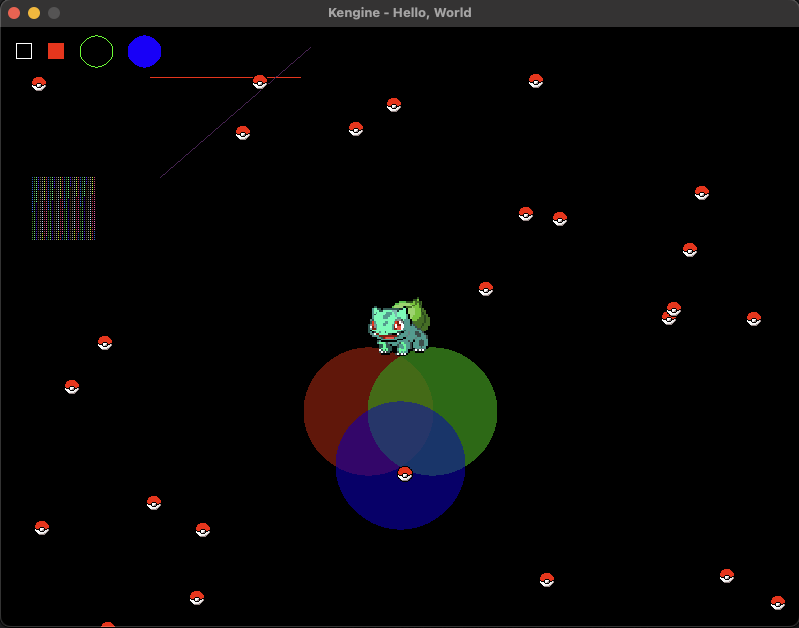
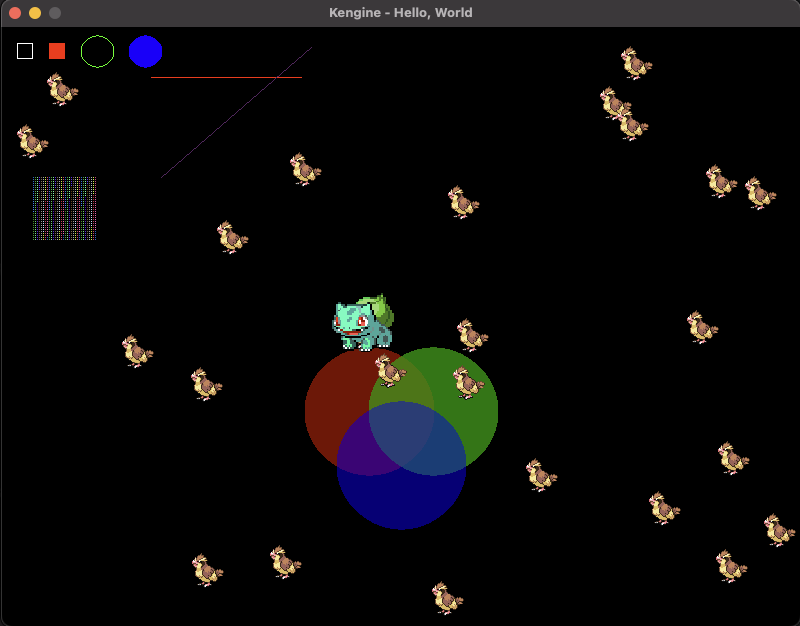
event engine v1 + example

diff --git a/helloworld/src/nativeMain/kotlin/PingPongPidgeyEntity.kt b/helloworld/src/nativeMain/kotlin/PingPongPidgeyEntity.kt
@@ -1,16 +1,18 @@
 import com.kengine.Vec2
 import com.kengine.context.useContext
 import com.kengine.entity.Entity
+import com.kengine.event.EventContext
 import com.kengine.graphics.Sprite
+import com.kengine.log.Logger
 import com.kengine.sdl.SDLContext
 import kotlin.random.Random
 
-class BouncingPokeballEntity : Entity {
-    private val pokeballSprite = Sprite("assets/sprites/pokeball.bmp")
+class PingPongPidgeyEntity : Entity {
+    private val pidgeySprite = Sprite("assets/sprites/pidgey.bmp")
     override val p: Vec2 = Vec2()
     override val v: Vec2 = Vec2()
-    override val width = pokeballSprite.width
-    override val height = pokeballSprite.height
+    override val width = pidgeySprite.width
+    override val height = pidgeySprite.height
     private var state = State.INIT
 
     private enum class State {
@@ -29,19 +31,24 @@ class BouncingPokeballEntity : Entity {
     }
 
     private fun init() {
+        useContext(EventContext.get()) {
+            subscribe(Events.BULBASAUR_ROAR) { e: BulbasaurRoarEvent ->
+                Logger.info { "Pidgey heard bulbasaur's roar of ${e.decibels}dB" }
+                v *= 1.05 // 5% increase in velocity
+            }
+        }
         useContext(SDLContext.get()) {
-            p.x = Random.nextInt(0, screenWidth - pokeballSprite.width).toDouble()
-            p.y = Random.nextInt(0, screenHeight - pokeballSprite.height).toDouble()
-            v.x = Random.nextInt(1, 100).toDouble() * if (Random.nextBoolean()) 1 else -1
-            v.y = Random.nextInt(1, 100).toDouble() * if (Random.nextBoolean()) 1 else -1
+            p.x = Random.nextInt(0, screenWidth - pidgeySprite.width).toDouble()
+            p.y = Random.nextInt(0, screenHeight - pidgeySprite.height).toDouble()
+            v.x = Random.nextInt(1, 30).toDouble() * if (Random.nextBoolean()) 1 else -1
+            v.y = Random.nextInt(1, 30).toDouble() * if (Random.nextBoolean()) 1 else -1
         }
         state = State.BOUNCE
     }
 
     private fun bounce(elapsedSeconds: Double) {
         useContext(SDLContext.get()) {
-            p.x += v.x * elapsedSeconds
-            p.y += v.y * elapsedSeconds
+            p += v * elapsedSeconds
             if (p.x < 0 || p.x > screenWidth - width) {
                 v.x *= -1
             }
@@ -52,11 +59,11 @@ class BouncingPokeballEntity : Entity {
     }
 
     override fun draw(elapsedSeconds: Double) {
-        pokeballSprite.draw(p.x, p.y)
+        pidgeySprite.draw(p.x, p.y)
     }
 
     override fun cleanup() {
-        pokeballSprite.cleanup()
+        pidgeySprite.cleanup()
     }
 
 }

diff --git a/kengine/src/nativeMain/kotlin/com/kengine/event/EventContext.kt b/kengine/src/nativeMain/kotlin/com/kengine/event/EventContext.kt
@@ -1,0 +1,57 @@
+package com.kengine.event
+
+import com.kengine.context.Context
+import com.kengine.log.Logger
+
+
+data class Event<M>(
+    val type: String, // TODO I tried <T : Enum<T>, M>, but clean instantiation of context without a defined T became difficult
+    val message: M
+)
+
+class EventContext : Context() {
+    private val subscribers = mutableMapOf<String, MutableList<(Any) -> Unit>>()
+
+    companion object {
+        private var currentContext: EventContext? = null
+
+        fun get(): EventContext {
+            if (currentContext == null) {
+                currentContext = EventContext()
+
+            }
+            return currentContext ?: throw IllegalStateException("Failed to create EventContext")
+        }
+    }
+
+    fun <M> subscribe(eventType: String, handler: (M) -> Unit) {
+        val handlers = subscribers.getOrPut(eventType) { mutableListOf() }
+        handlers.add { message ->
+            try {
+                handler(message as M)
+            } catch (e: ClassCastException) {
+                Logger.error { "Failed to cast message: ${e.message}" }
+                Logger.debug(e)
+            }
+        }
+    }
+
+    fun <M : Any> publish(eventType: String, message: M) {
+        subscribers[eventType]?.forEach { handler ->
+            handler(message)
+        }
+    }
+
+    fun clearSubscribers(eventType: String) {
+        subscribers.remove(eventType)
+    }
+
+    fun clearAll() {
+        subscribers.clear()
+    }
+
+    override fun cleanup() {
+        clearAll()
+    }
+
+}

diff --git a/kengine/src/nativeMain/kotlin/com/kengine/GameContext.kt b/kengine/src/nativeMain/kotlin/com/kengine/GameContext.kt
@@ -2,6 +2,7 @@ package com.kengine
 
 import com.kengine.action.ActionsContext
 import com.kengine.context.Context
+import com.kengine.event.EventContext
 import com.kengine.geometry.GeometryContext
 import com.kengine.graphics.SpriteContext
 import com.kengine.graphics.TextureContext
@@ -15,7 +16,8 @@ import com.kengine.sound.SoundContext
 
 class GameContext private constructor(
     val sdl: SDLContext,
-    val events: SDLEventContext,
+    val sdlEvents: SDLEventContext,
+    val events: EventContext,
     val keyboard: KeyboardContext,
     val mouse: MouseContext,
     val textures: TextureContext,
@@ -43,7 +45,8 @@ class GameContext private constructor(
             }
             currentContext = GameContext(
                 sdl = SDLContext.create(title, width, height),
-                events = SDLEventContext.get(),
+                events = EventContext.get(),
+                sdlEvents = SDLEventContext.get(),
                 keyboard = KeyboardContext.get(),
                 mouse = MouseContext.get(),
                 textures = TextureContext.get(),
@@ -64,7 +67,7 @@ class GameContext private constructor(
     override fun cleanup() {
         Logger.info { "Cleaning up game resources" }
         actions.cleanup()
-        events.cleanup()
+        sdlEvents.cleanup()
         keyboard.cleanup()
         mouse.cleanup()
         textures.cleanup()

diff --git a/kengine/src/nativeMain/kotlin/com/kengine/log/Logger.kt b/kengine/src/nativeMain/kotlin/com/kengine/log/Logger.kt
@@ -21,19 +21,19 @@ object Logger {
     fun info(message: () -> String) = log(INFO, message())
     fun warn(message: () -> String) = log(WARN, message())
     fun error(message: () -> String) = log(ERROR, message())
-    fun debug(message: () -> Any) = log(DEBUG, message().toString())
-    fun info(message: () -> Any) = log(INFO, message().toString())
-    fun warn(message: () -> Any) = log(WARN, message().toString())
-    fun error(message: () -> Any) = log(ERROR, message().toString())
 
     fun debug(message: String) = log(DEBUG, message)
     fun info(message: String) = log(INFO, message)
     fun warn(message: String) = log(WARN, message)
     fun error(message: String) = log(ERROR, message)
-    fun debug(message: Any) = log(DEBUG, message.toString())
-    fun info(message: Any) = log(INFO, message.toString())
-    fun warn(message: Any) = log(WARN, message.toString())
-    fun error(message: Any) = log(ERROR, message.toString())
+
+    // special exception helpers
+    fun debug(e: Exception) = log(DEBUG, exceptionToString(e))
+    fun info(e: Exception) = log(INFO, exceptionToString(e))
+    fun warn(e: Exception) = log(WARN, exceptionToString(e))
+    fun error(e: Exception) = log(ERROR, exceptionToString(e))
+
+    private fun exceptionToString(e: Exception) = "${e.message}\n${e.stackTraceToString()}"
 
     /**
      * Sets the global log level.

diff --git a/helloworld/src/nativeMain/kotlin/BulbasaurEntity.kt b/helloworld/src/nativeMain/kotlin/BulbasaurEntity.kt
@@ -1,10 +1,13 @@
+
 import com.kengine.context.useContext
 import com.kengine.entity.SpriteEntity
+import com.kengine.event.EventContext
 import com.kengine.graphics.Sprite
 import com.kengine.input.KeyboardContext
 import com.kengine.input.MouseContext
 import com.kengine.log.Logger
 import com.kengine.sdl.SDLContext
+import sdl2.SDLK_SPACE
 
 class BulbasaurEntity : SpriteEntity(
     sprite = Sprite("assets/sprites/bulbasaur.bmp")
@@ -40,6 +43,12 @@ class BulbasaurEntity : SpriteEntity(
             }
             if (keyboard.isDownPressed()) {
                 v.y = speed * elapsedSeconds
+            }
+            if (keyboard.isKeyPressed(SDLK_SPACE)) {
+                Logger.info { "Bulbasaur ROARED!" }
+                useContext(EventContext.get()) {
+                    publish(Events.BULBASAUR_ROAR, BulbasaurRoarEvent(decibels = 90.0))
+                }
             }
         }
         useContext(MouseContext.get()) {

diff --git a/boxxle/src/nativeMain/kotlin/boxxle/BoxxleGame.kt b/boxxle/src/nativeMain/kotlin/boxxle/BoxxleGame.kt
@@ -51,12 +51,12 @@ class BoxxleGame : Game {
         }
     }
 
-    fun beginPlay() {
+    private fun beginPlay() {
         mainSound.loop()
         state = State.PLAY
     }
 
-    fun play(elapsedSeconds: Double) {
+    private fun play(elapsedSeconds: Double) {
         useContext(BoxxleContext.get()) {
             player.update(elapsedSeconds)
 

diff --git a/helloworld/src/nativeMain/kotlin/HelloWorldGame.kt b/helloworld/src/nativeMain/kotlin/HelloWorldGame.kt
@@ -6,7 +6,7 @@ import com.kengine.sdl.SDLContext
 
 class HelloWorldGame : Game {
     private val bulbasaur = BulbasaurEntity()
-    private val pokeballs = List(size = 25) { BouncingPokeballEntity() }
+    private val pokeballs = List(size = 25) { PingPongPidgeyEntity() }
 
     override fun update(elapsedSeconds: Double) {
         pokeballs.forEach {

diff --git a/kengine/src/nativeMain/kotlin/com/kengine/GameLoop.kt b/kengine/src/nativeMain/kotlin/com/kengine/GameLoop.kt
@@ -22,7 +22,7 @@ class GameLoop(
                 val elapsedSeconds = (currentFrameTime - lastFrameTime) / 1000.0
                 lastFrameTime = currentFrameTime
 
-                events.pollEvents()
+                sdlEvents.pollEvents()
                 actions.update(elapsedSeconds)
 
                 update(elapsedSeconds)

diff --git a/helloworld/src/nativeMain/kotlin/Events.kt b/helloworld/src/nativeMain/kotlin/Events.kt
@@ -1,0 +1,7 @@
+object Events {
+    const val BULBASAUR_ROAR = "BULBASAUR_ROAR"
+}
+
+class BulbasaurRoarEvent(
+    val decibels: Double
+)
